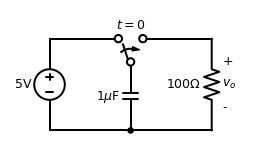
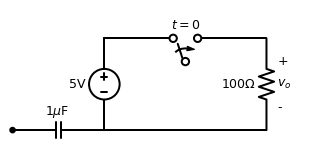
add logic

Changed region(s): [[0.0, 0.1119, 0.9231, 0.951]]

diff --git a/draw_capaciter.py b/draw_capaciter.py
@@ -2,15 +2,50 @@ import schemdraw
 from schemdraw import elements as elm
 from schemdraw import logic
 
-with schemdraw.Drawing() as d:
-    d += (V1 := elm.SourceV().label('5V'))
-    d += elm.Line().right(d.unit * .75)
-    d += (S1 := elm.SwitchSpdt2(action='close').up().anchor('b').label('$t=0$', loc='rgt'))
-    d += elm.Line().right(d.unit * .75).at(S1.c)
-    d += elm.Resistor().down().label('$100\Omega$').label(
-        ['+', '$v_o$', '-'], loc='bot')
-    d += elm.Line().to(V1.start)
-    d += elm.Capacitor().at(S1.a).toy(V1.start).label('1$\mu$F').dot()
+V1 = elm.SourceV().label('5V')
+S1 = elm.SwitchSpdt2(action='close').up().anchor('b').label('$t=0$', loc='rgt')
+R1 = elm.Resistor().down().label('$100\Omega$').label(['+', '$v_o$', '-'], loc='bot')
+#C1 = elm.Capacitor().at(S1.a).toy(V1.start).label('1$\mu$F').dot()
+C1 = elm.Capacitor().label('1$\mu$F').dot()
 
-    d.save("draw_capaciter.png", transparent=False)
-    d.draw()
+d = schemdraw.Drawing()
+d.add(V1)
+d.add(elm.Line().right(d.unit * .75))
+d.add(S1)
+d.add(elm.Line().right(d.unit * .75).at(S1.c))
+d.add(R1)
+d.add(elm.Line().to(V1.start))
+d.add(C1)
+
+d.save("draw_capaciter.png", transparent=False)
+d.draw()
+
+d = schemdraw.Drawing()
+d.config(unit=0.5)
+d += (X1 := logic.Xor())
+d += (A := logic.Line().left(d.unit * 2).at(X1.in1).idot().label('A', 'left'))
+d += (B := logic.Line().left().at(X1.in2).dot())
+d += logic.Line().left().label('B', 'left')
+
+d += logic.Line().right().at(X1.out).idot()
+d += (X2 := logic.Xor().anchor('in1'))
+d += (C := logic.Line().down(d.unit * 2).at(X2.in2))
+d.push()
+d += logic.Dot().at(C.center)
+d += logic.Line().tox(A.end).label('C$_{in}$', 'left')
+d.pop()
+
+d += (A1 := logic.And().right().anchor('in1'))
+d += logic.Wire('-|').at(A1.in2).to(X1.out)
+d.move_from(A1.in2, dy=-d.unit * 2)
+d += (A2 := logic.And().right().anchor('in1'))
+d += logic.Wire('-|').at(A2.in1).to(A.start)
+d += logic.Wire('-|').at(A2.in2).to(B.end)
+d.move_from(A1.out, dy=-(A1.out.y - A2.out.y) / 2)
+d += (O1 := logic.Or().right().label('C$_{out}$', 'right'))
+d += logic.Line().at(A1.out).toy(O1.in1)
+d += logic.Line().at(A2.out).toy(O1.in2)
+d += logic.Line().at(X2.out).tox(O1.out).label('S', 'right')
+
+d.save("draw_logic.png", transparent=False)
+d.draw()
